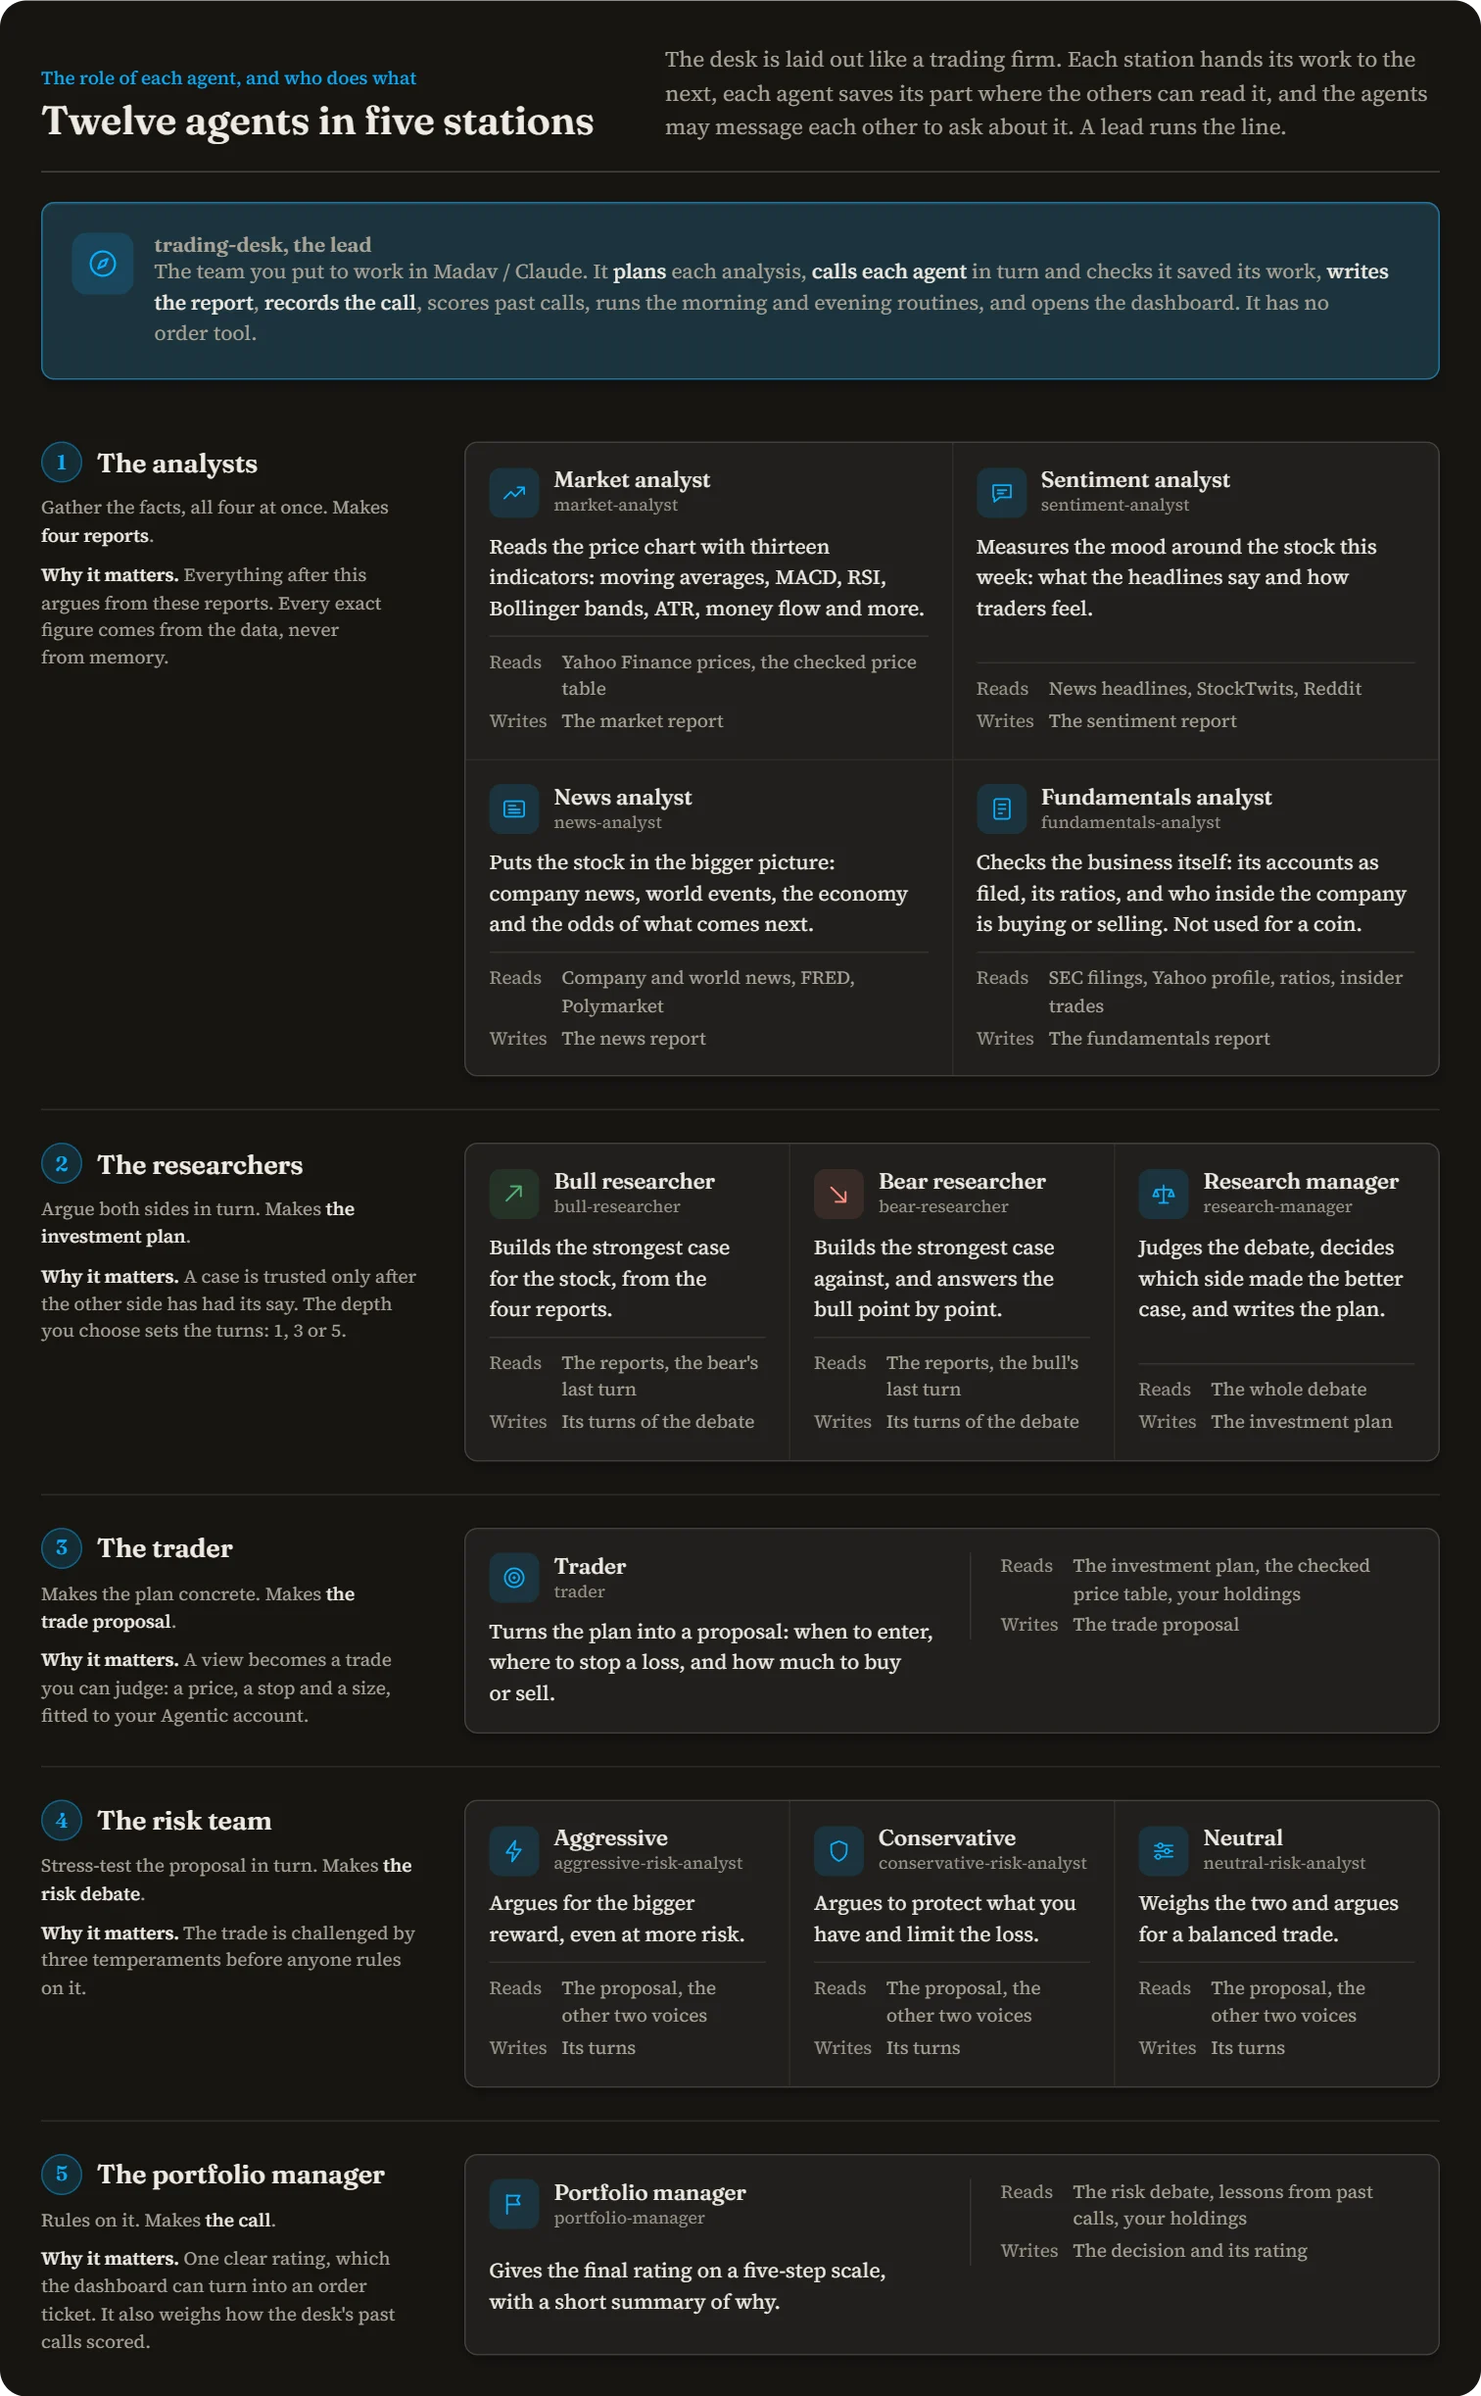
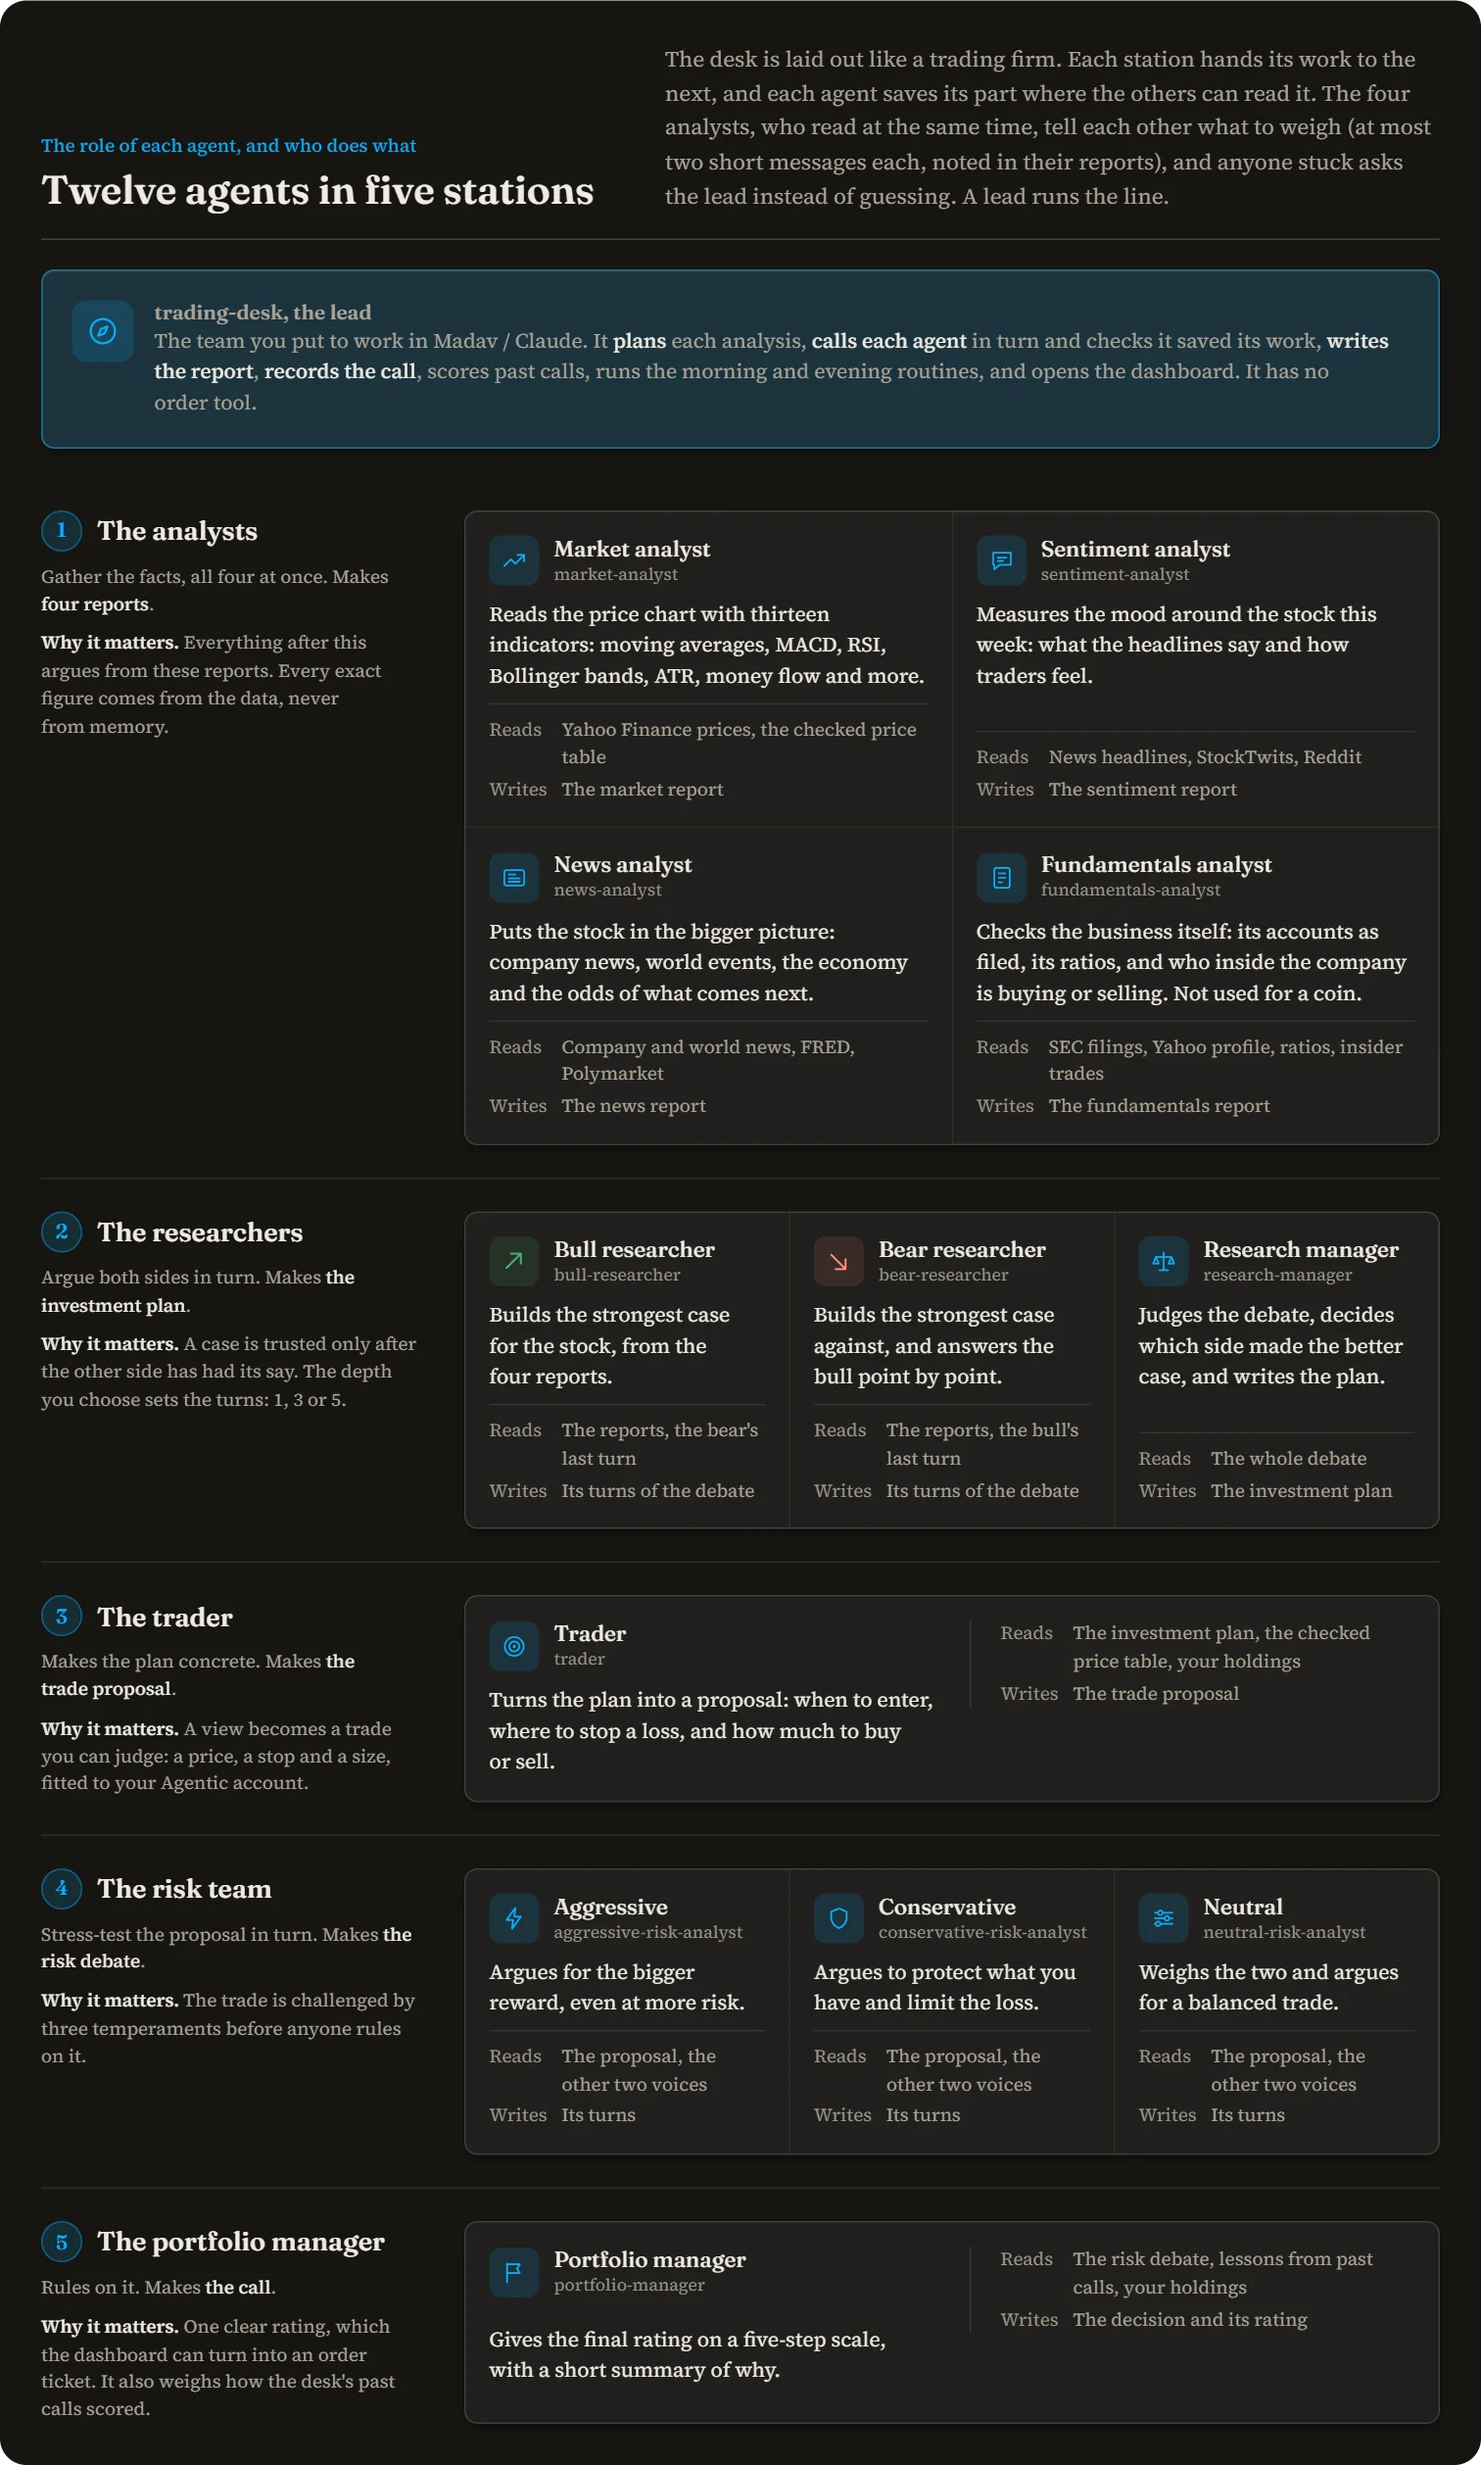
The agents talk only with a reason: analysts tell each other what to weigh, anyone stuck asks the lead
- Each analyst's file gets "Talking to the other analysts" (scripts/agents-src.mjs ANALYST_TALK): they read at the same time and none sees the others' reports until all are done, so one tells another what to weigh, at most two messages a run, pointing at a source or a date and never a figure of its own, only to analysts the request names, each noted in the sender's report; a message received is checked with the receiver's own tools.
- Every member: when stuck, ask the lead one short question instead of guessing, and write it into the saved work too; no message without a purpose; with no message tool, silence.
- The lead (scripts/team-src.mjs): "When a member asks you", one line, never a figure of its own; the analyse playbook names the analysts working in each run.
- test/team.test.ts keeps these rules; README and the visual guide's agents chapter, with its pictures.

diff --git a/docs/inside-the-trading-desk.html b/docs/inside-the-trading-desk.html
@@ -671,7 +671,7 @@ p { text-wrap: pretty; }
   <section class="chapter" id="agents">
     <div class="ch-head">
       <div class="ch-title"><p class="kicker">The role of each agent, and who does what</p><h2>Twelve agents in five stations</h2></div>
-      <p>The desk is laid out like a trading firm. Each station hands its work to the next, each agent saves its part where the others can read it, and the agents may message each other to ask about it. A lead runs the line.</p>
+      <p>The desk is laid out like a trading firm. Each station hands its work to the next, and each agent saves its part where the others can read it. The four analysts, who read at the same time, tell each other what to weigh (at most two short messages each, noted in their reports), and anyone stuck asks the lead instead of guessing. A lead runs the line.</p>
     </div>
     <article class="at-box lead c-desk">
       <span class="icbox lg"><svg class="ic lg"><use href="#i-compass"/></svg></span>

diff --git a/README.md b/README.md
@@ -90,6 +90,12 @@ other source sees it.
 
 Choose `shallow`, `medium` or `deep` (1, 3 or 5 rounds of debate), which analysts run, and the report language.
 
+The agents talk only when it does work the written record cannot. The four analysts read at the same time, so when one
+finds something another should weigh ("a recall was announced on the 14th: weigh the reaction since then"), it says
+so: at most two short messages each, pointing at a source or a date, never a figure of their own, and each noted in the
+sender's report so you see it on the dashboard. Any member that is stuck asks the lead instead of guessing. In Madav,
+the team's "talk" switch shows these messages in the Messages panel; with it off, the team works in silence.
+
 ## One call, from question to order
 
 <a href="https://madavai.github.io/Trading-Agents/inside-the-trading-desk.html#journey">
